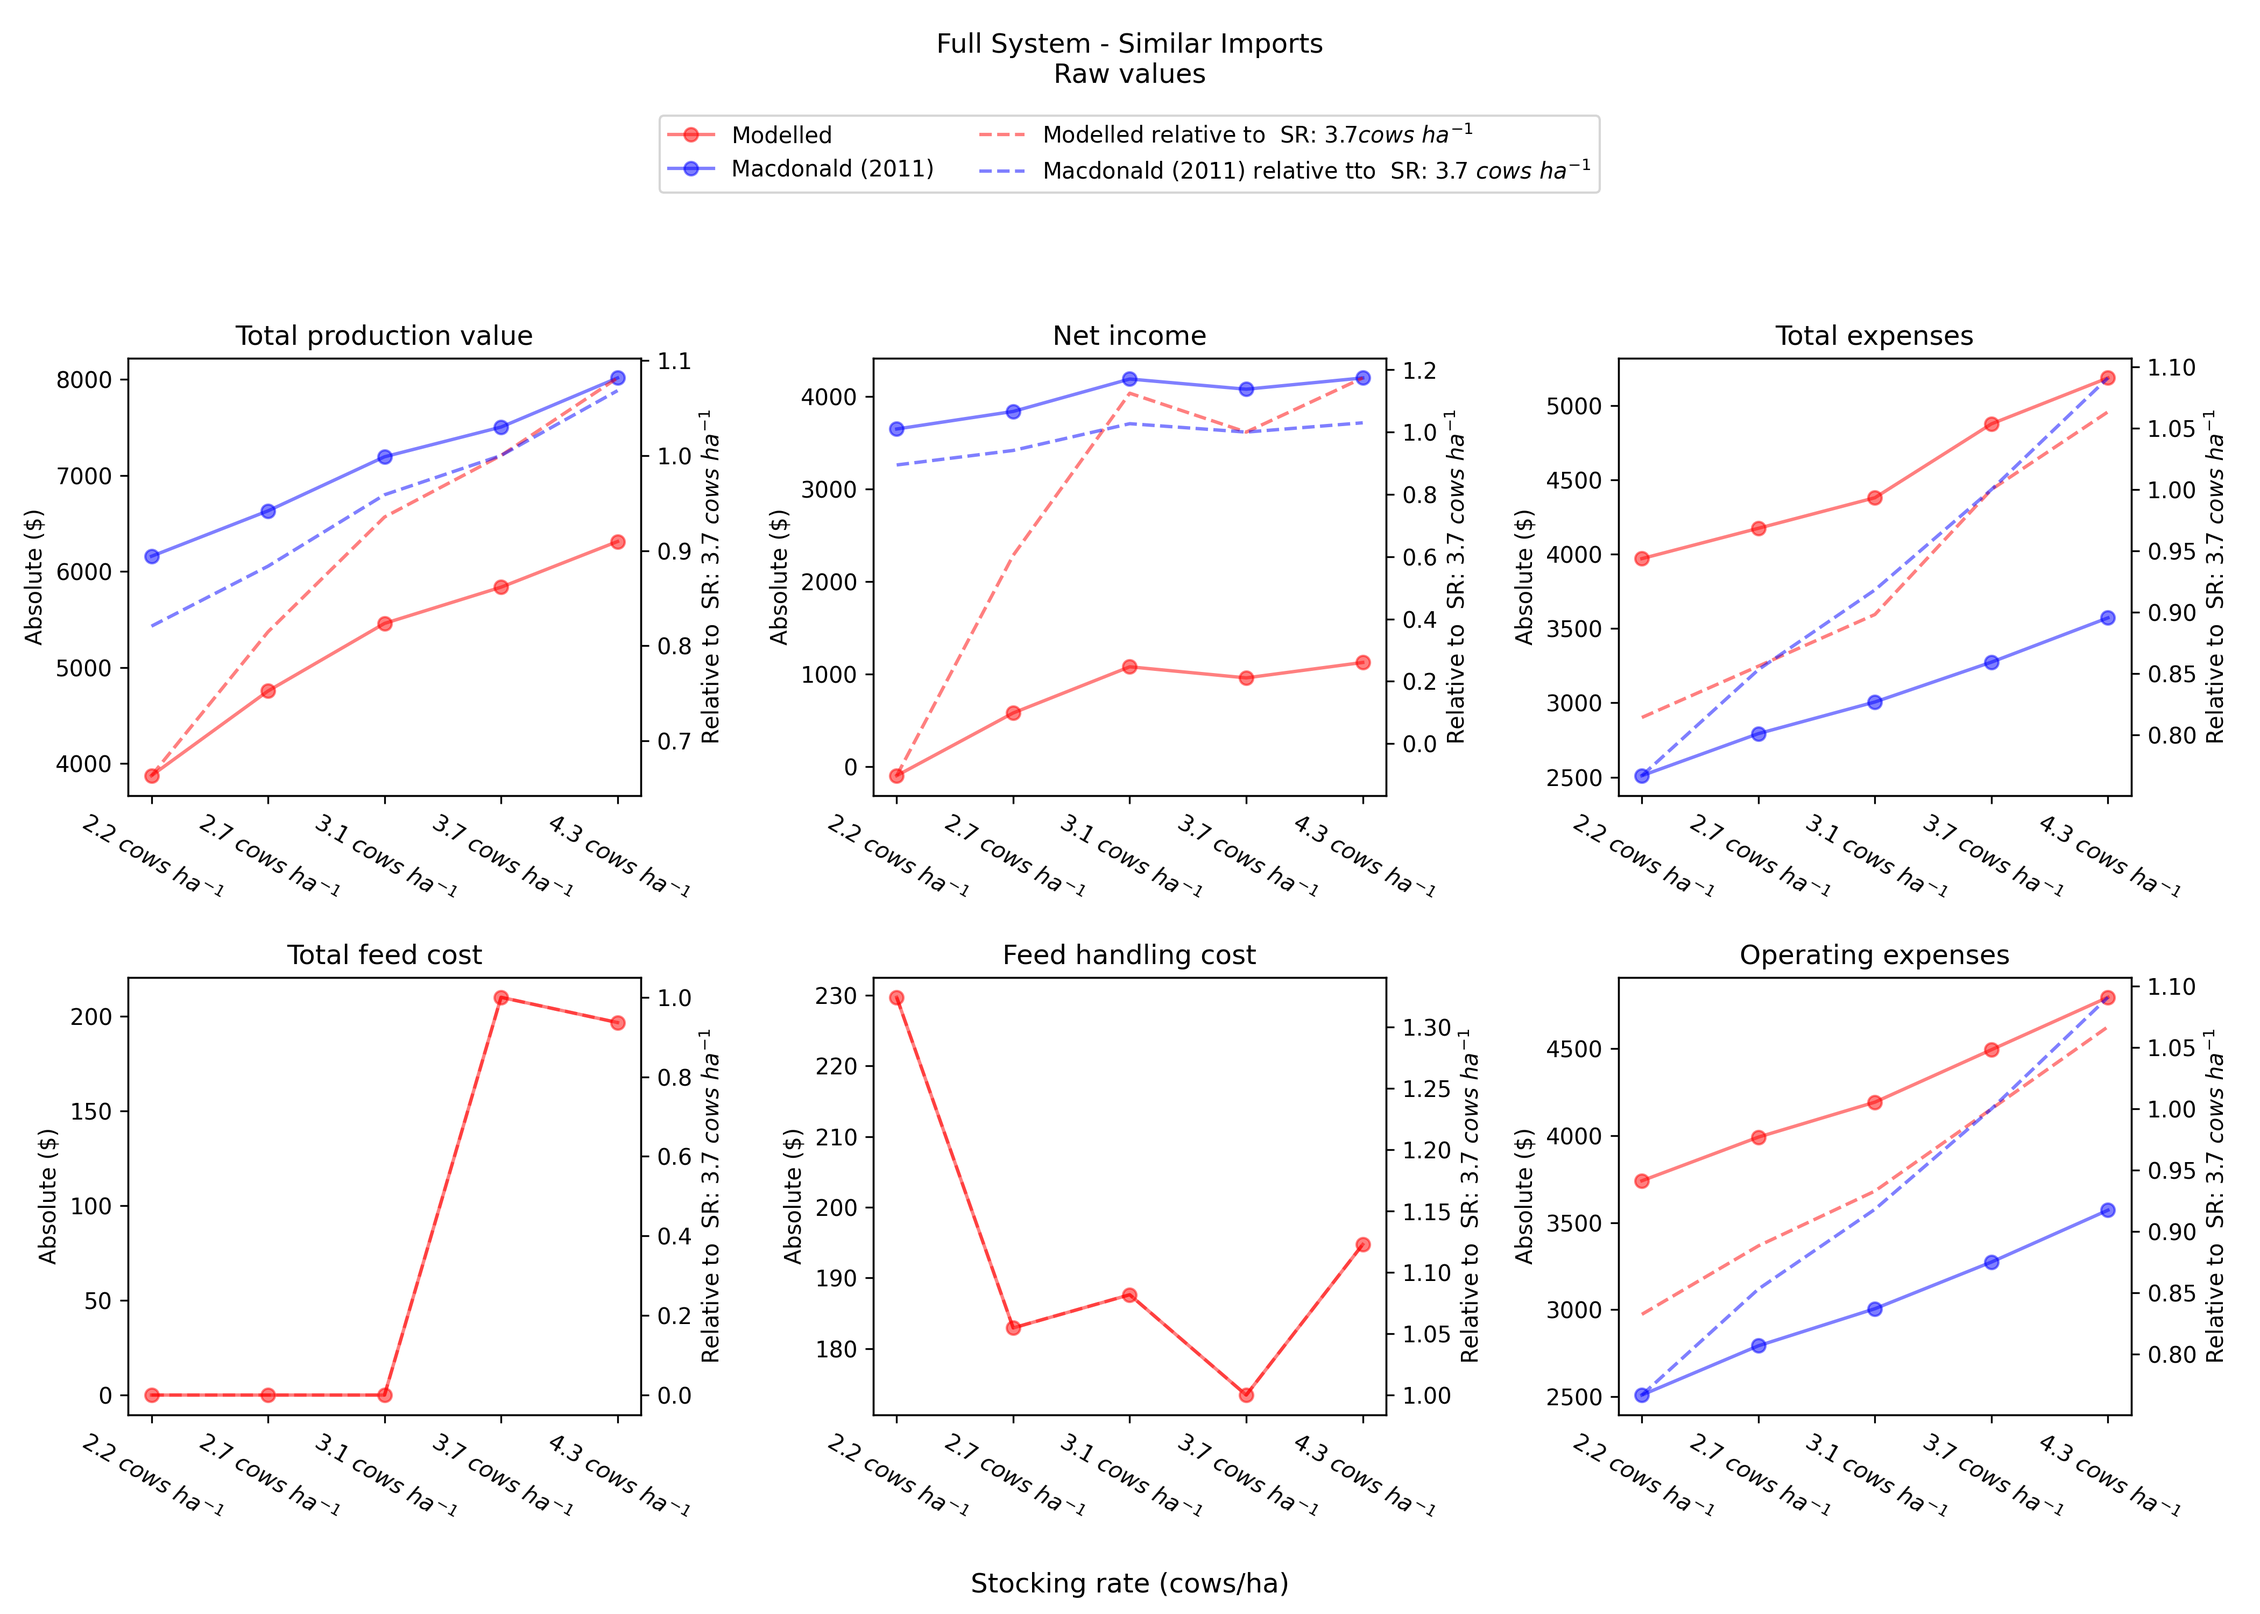
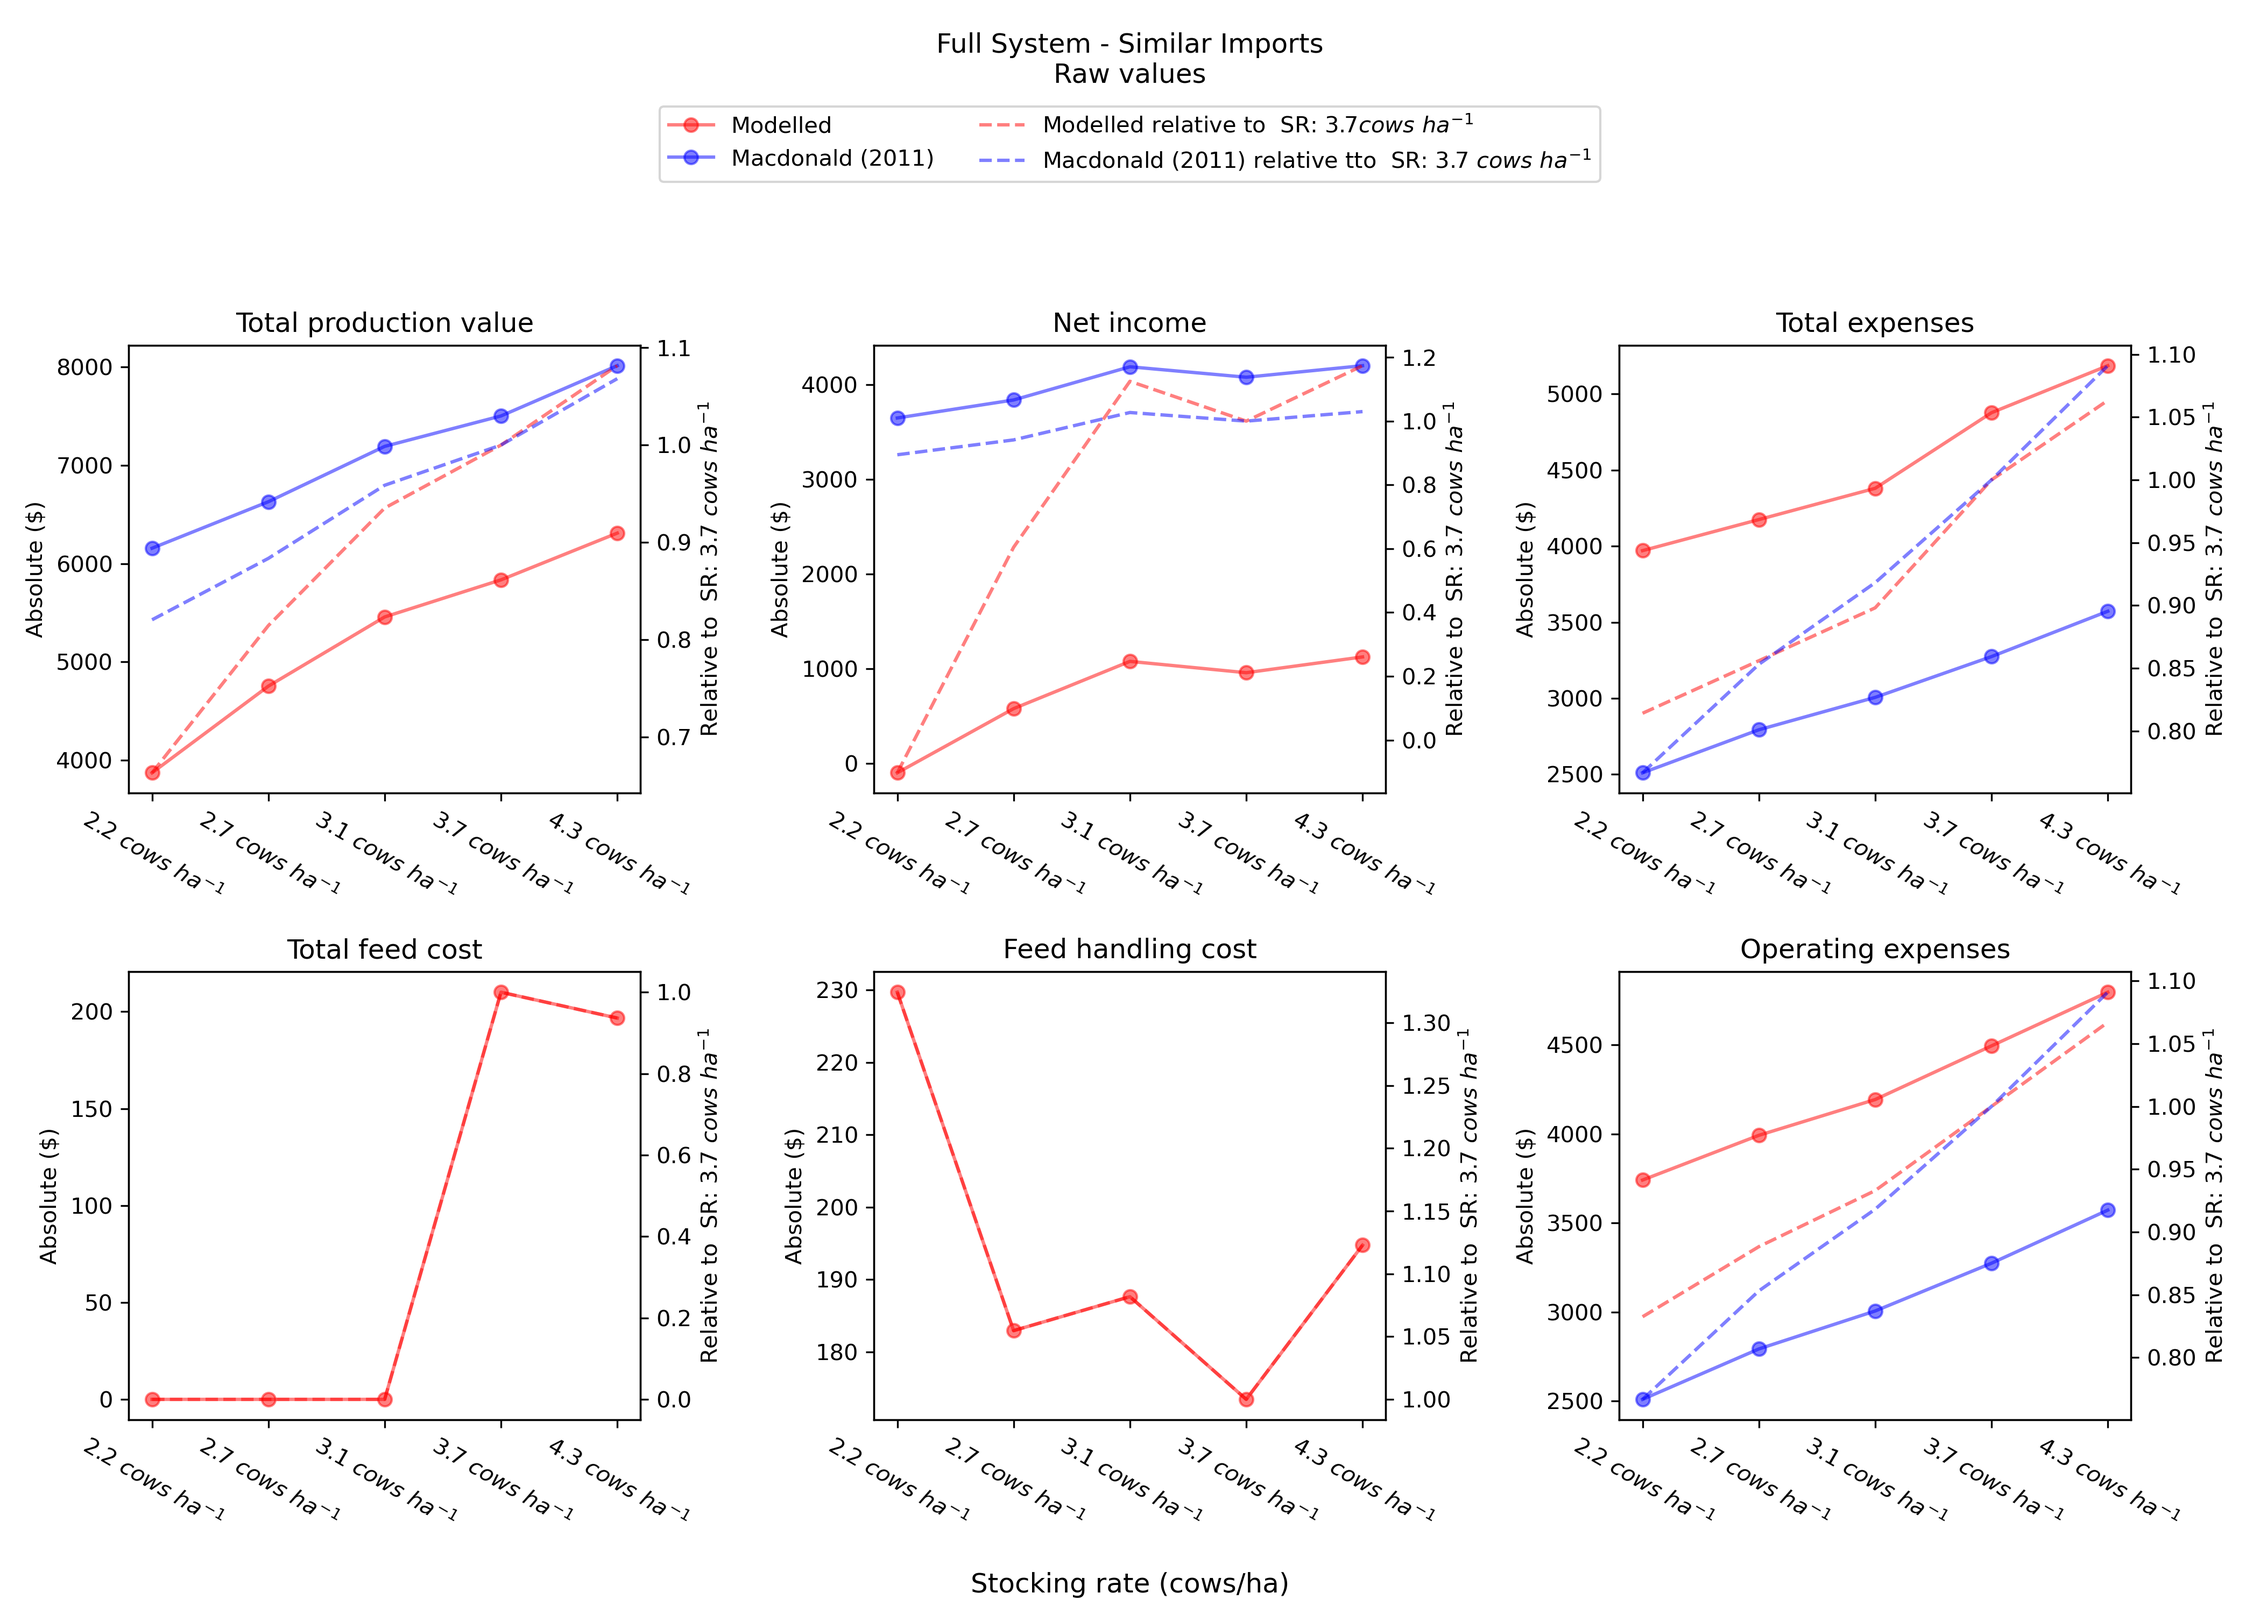
update figures for smac paper

diff --git a/dairy_model_validataion/validation_overview.py b/dairy_model_validataion/validation_overview.py
@@ -53,8 +53,8 @@ def make_summary_plot():
             axs.append(fig.add_subplot(gs[i + 1, j]))
 
     titles = ['Production\n($kgMS~ha^{-1}$)',
-              'F. demand\n($kgDM~ha^{-1}$)',
-              'F. imported\n($kgDM~ha^{-1}$)',
+              'Feed demand\n($kgDM~ha^{-1}$)',
+              'Feed imported\n($kgDM~ha^{-1}$)',
               'Gross\n($ \\$~ha^{-1}$)',
               'Expenses\n($ \\$~ha^{-1}$)',
               'Net\n($ \\$~ha^{-1}$)',
@@ -106,7 +106,7 @@ def make_summary_plot():
     fig.supxlabel('Modelled (This work)')
     fig.supylabel('Reported (Observed - Farmmax model)')
     fig.tight_layout()
-    fig.savefig(Path(__file__).parent.joinpath('summary_plot.png'), dpi=300)
+    fig.savefig(Path(__file__).parent.joinpath('summary_plot.png'), dpi=600)
     plt.show()
 
 
